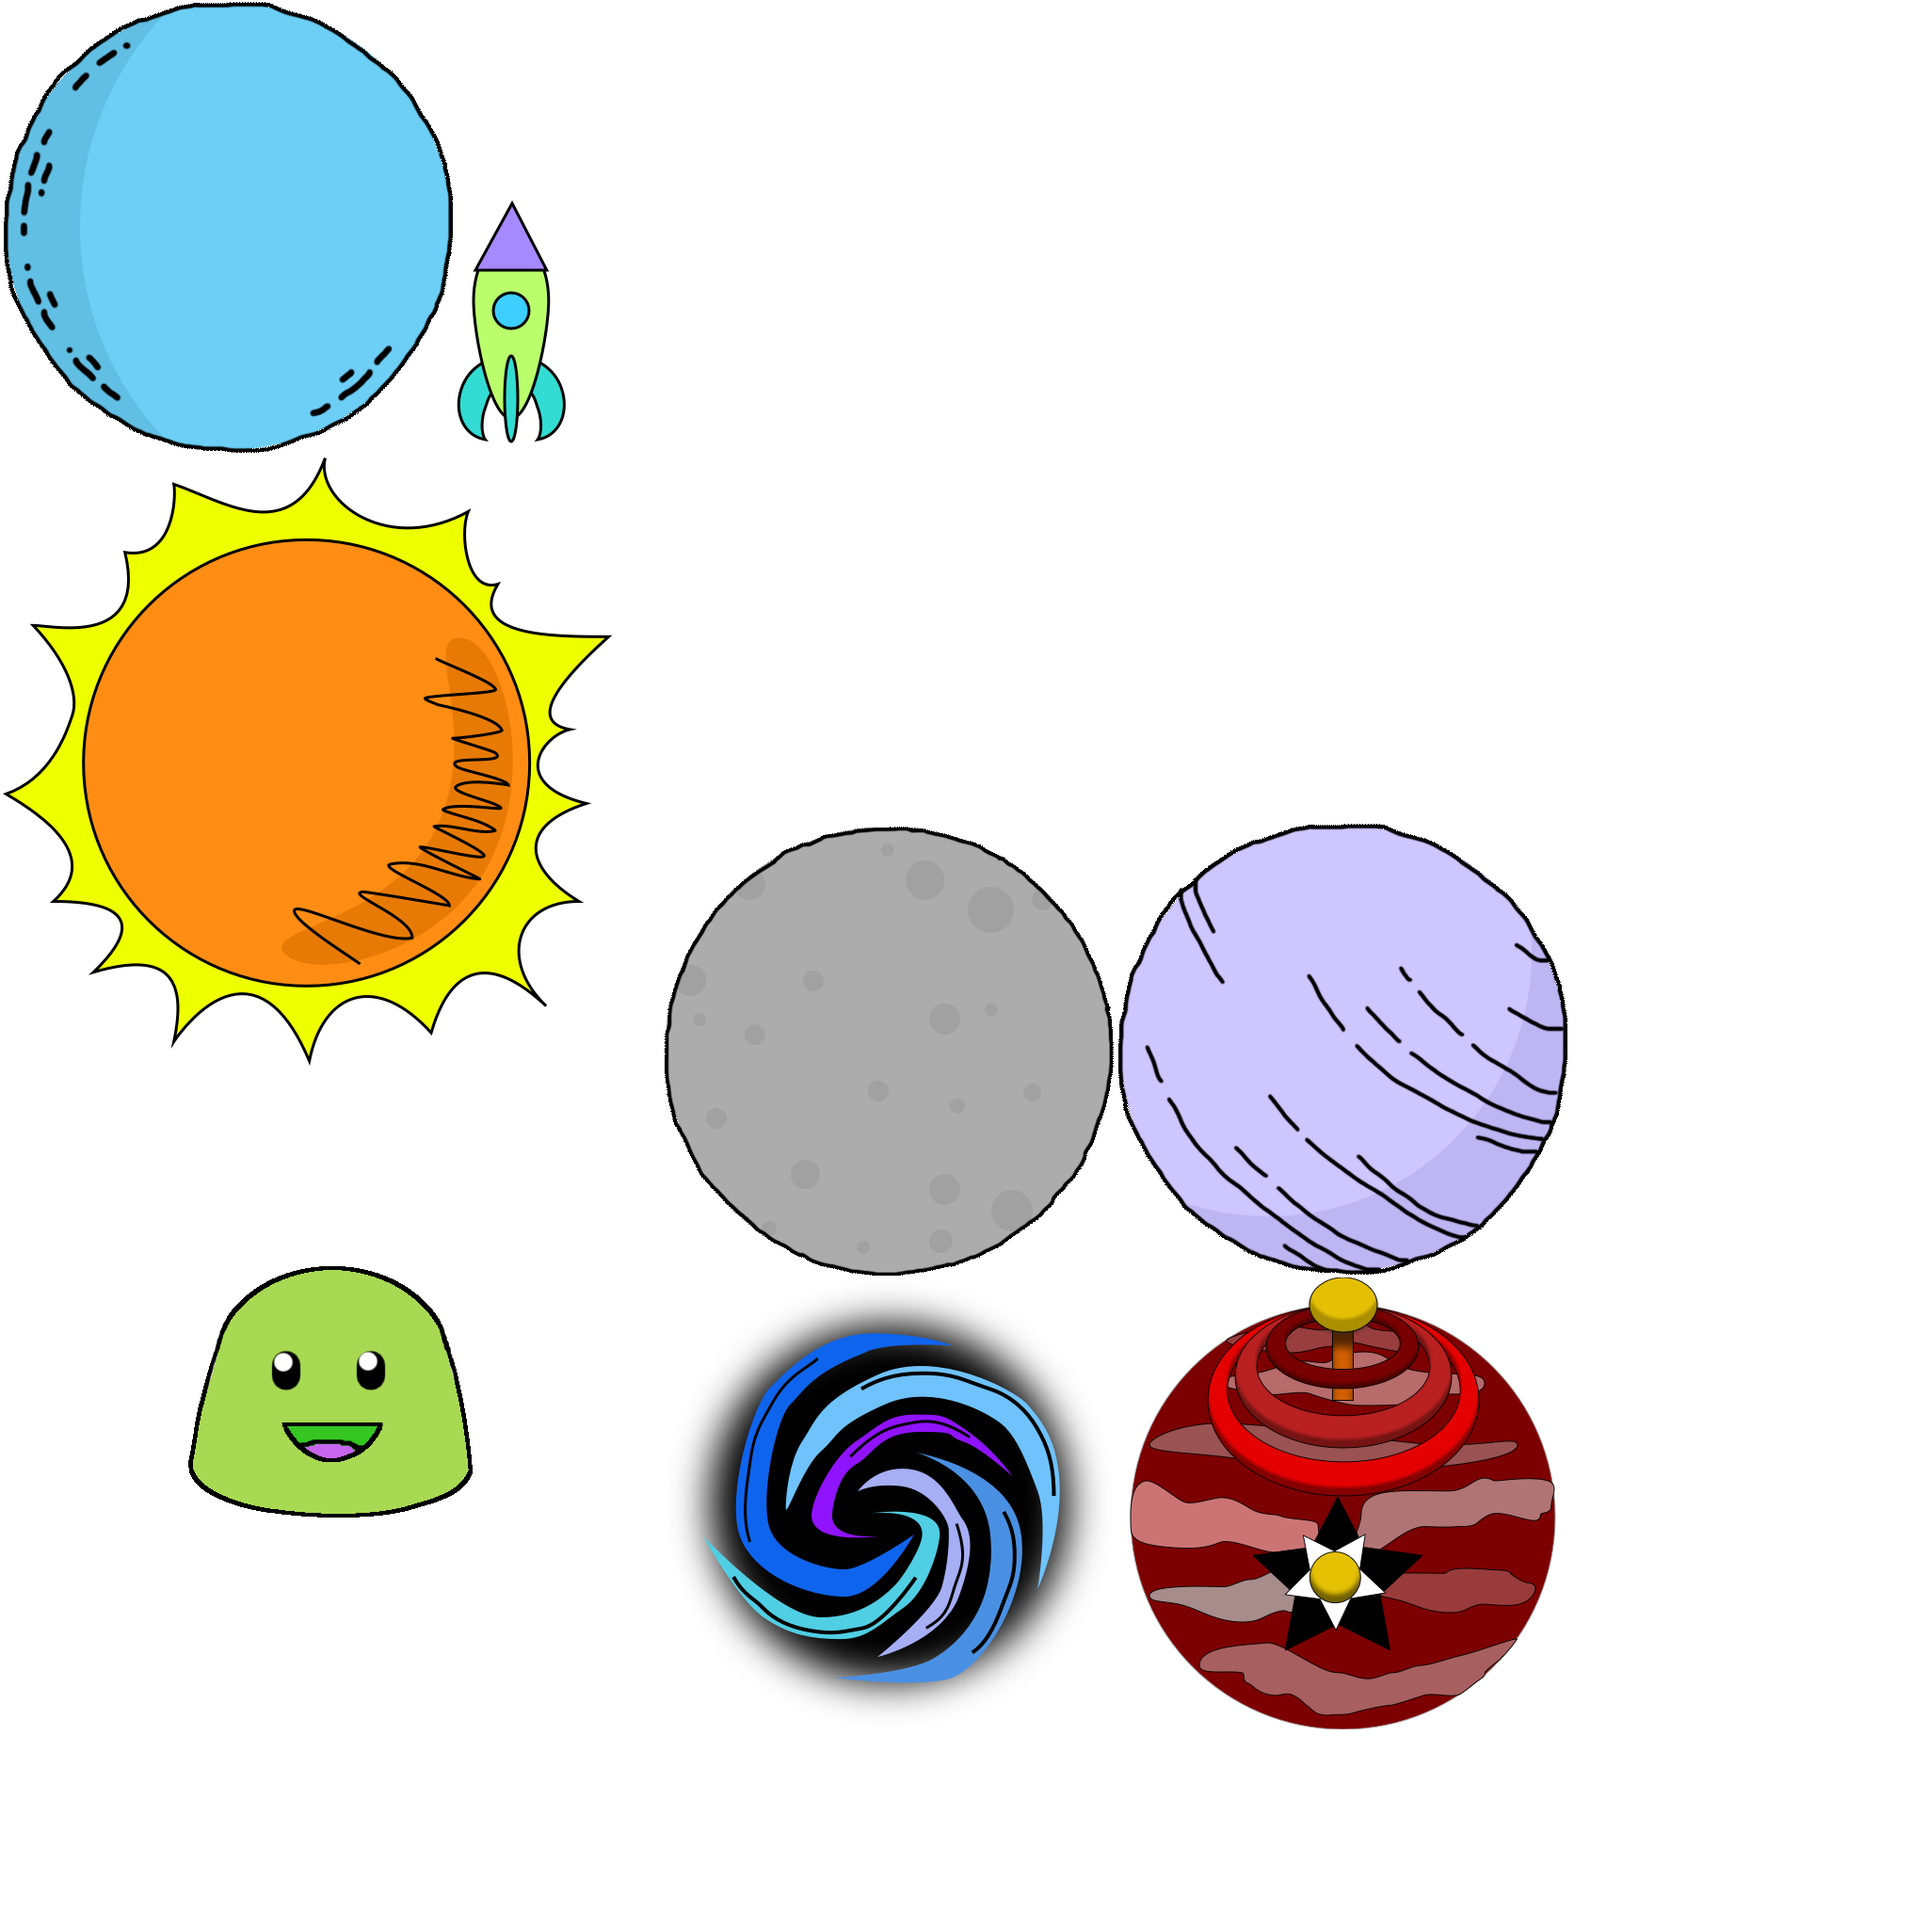
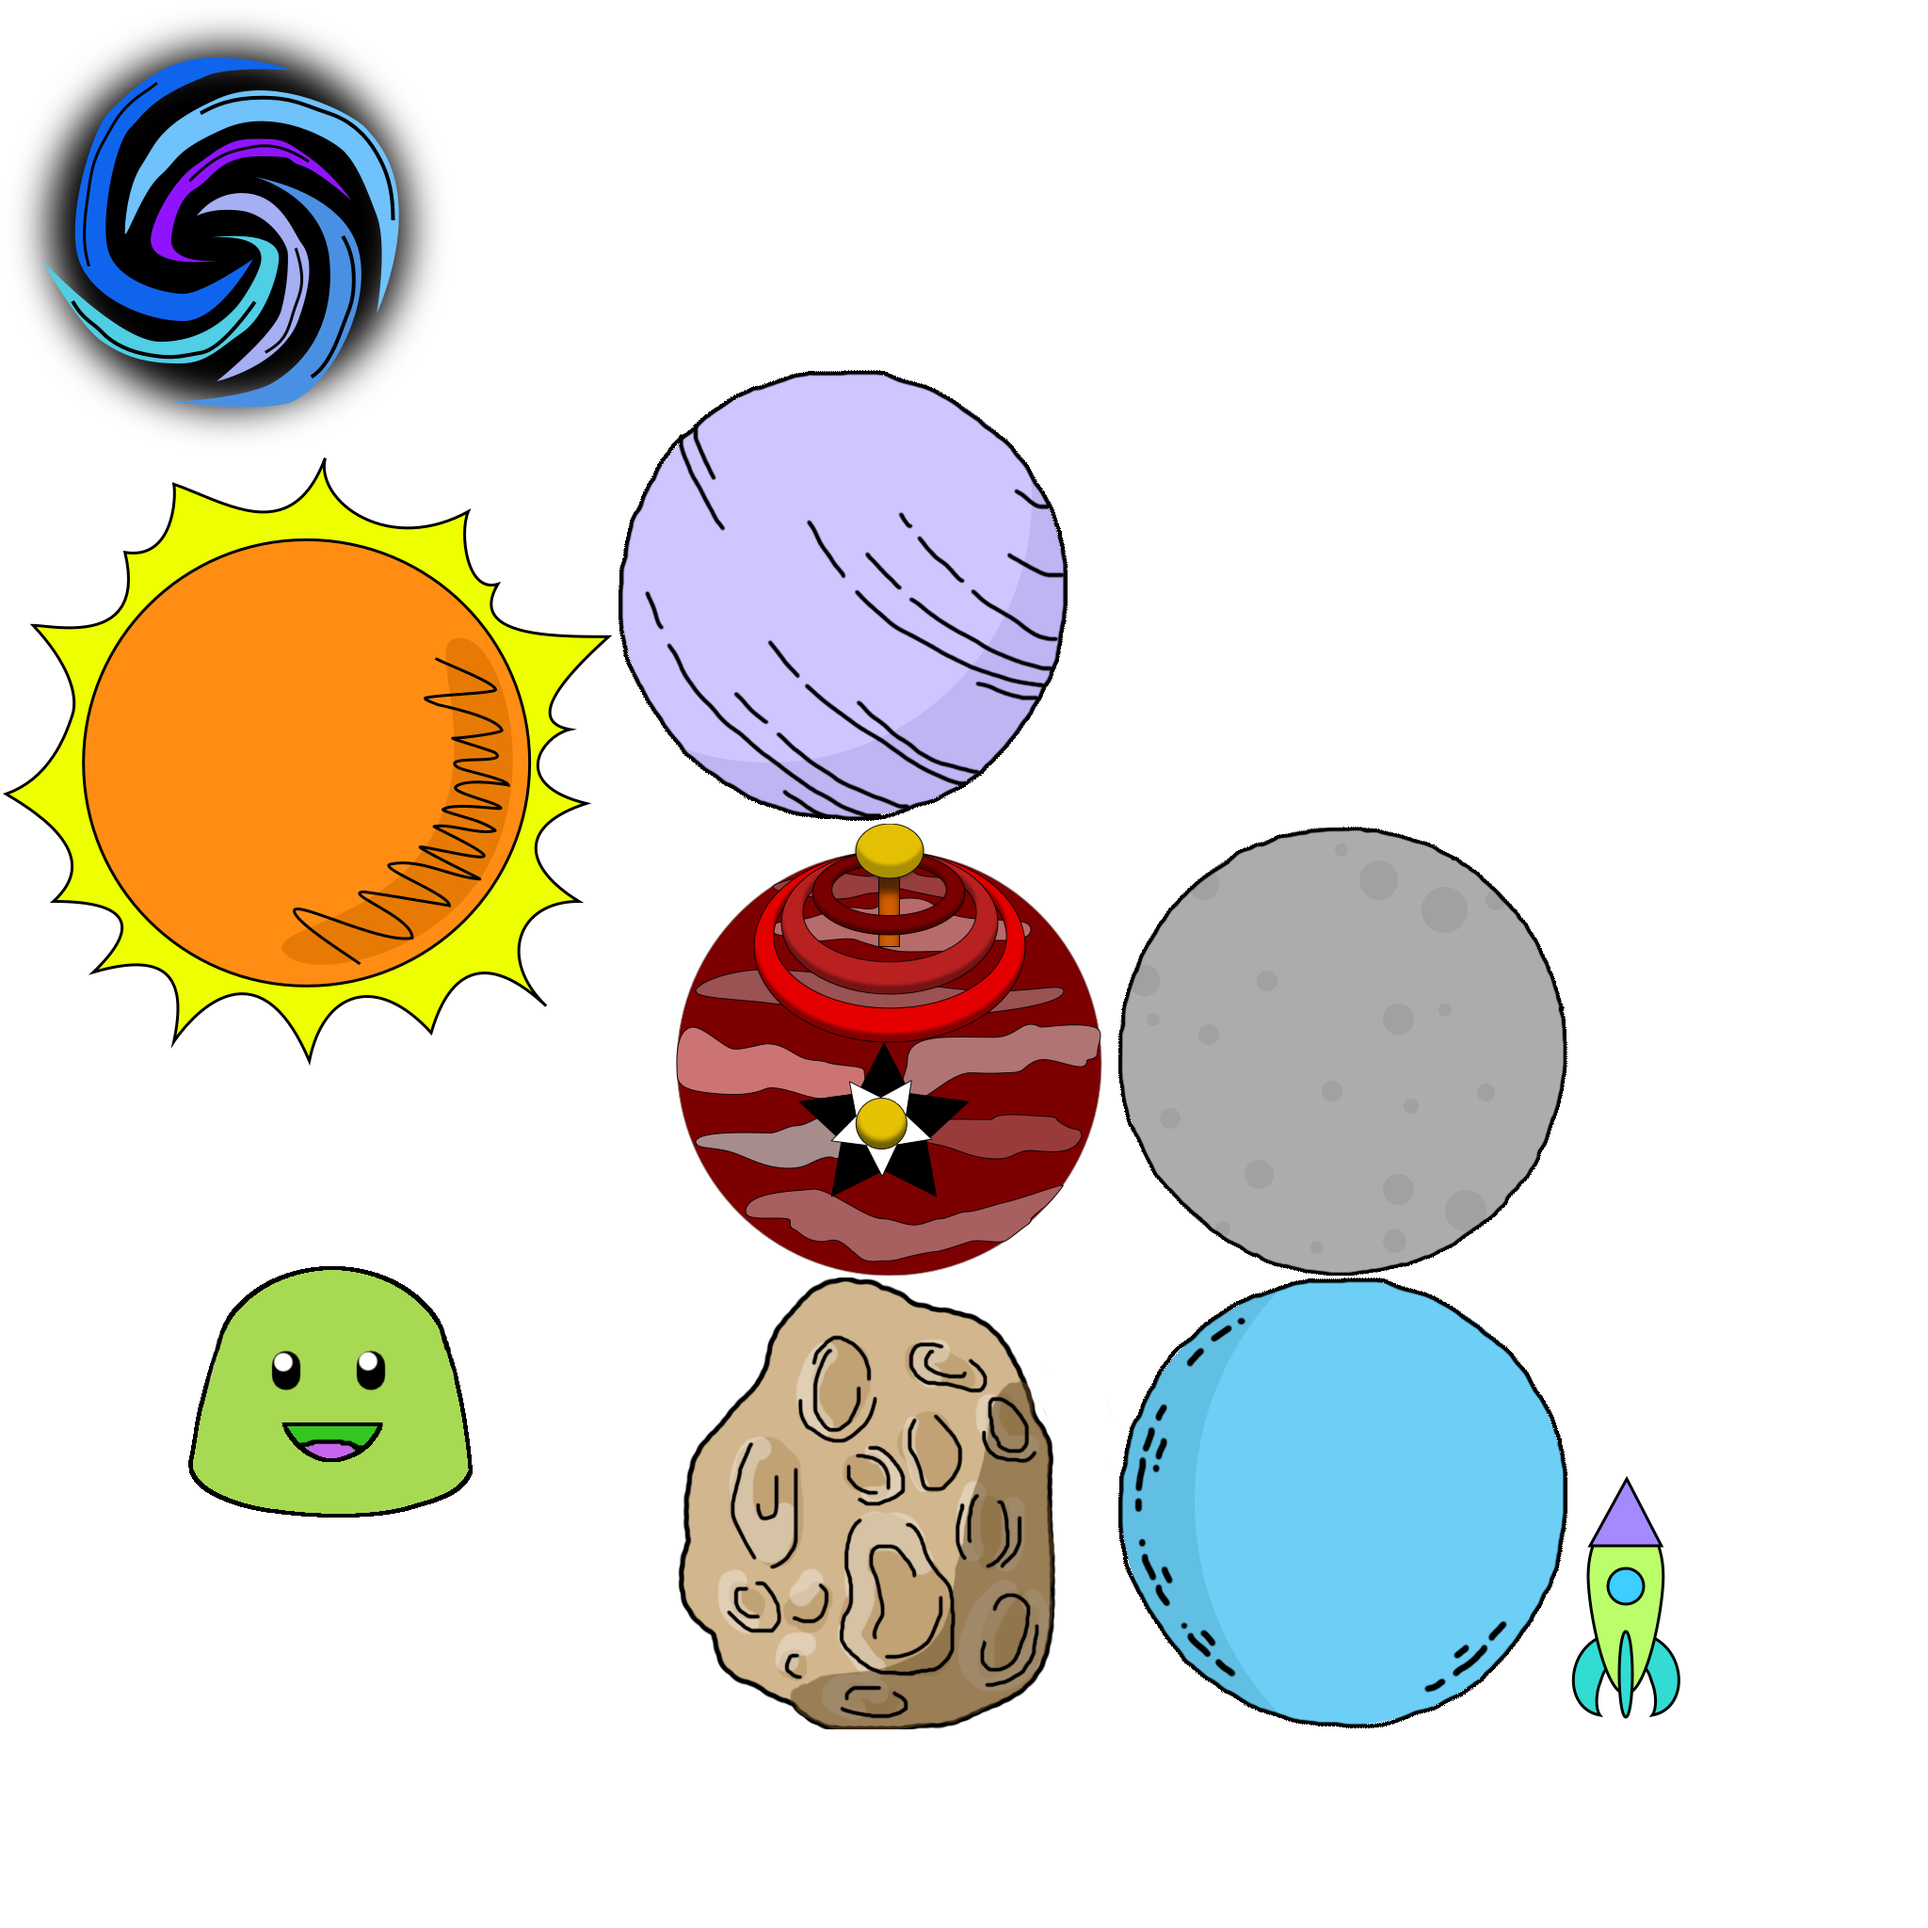
added asteroids

Changed region(s): [[0.3125, 0.1875, 0.875, 0.9062], [0.0, 0.0, 0.3125, 0.25]]

diff --git a/Code/core/src/edu/cornell/gdiac/controller/PlayMode.java b/Code/core/src/edu/cornell/gdiac/controller/PlayMode.java
@@ -702,6 +702,7 @@ public class PlayMode extends WorldController implements ContactListener {
     protected Array<Array<Float>> PLANETS = new Array<Array<Float>>();
     protected Array<Array<Float>> SHIPS = new Array<Array<Float>>();
     protected Array<Array<Float>> BLACK_HOLES = new Array<Array<Float>>();
+    protected Array<Array<Float>> ASTEROIDS = new Array<Array<Float>>();
 
     // Physics objects for the game
     /** Reference to the character avatar */
@@ -819,6 +820,7 @@ public class PlayMode extends WorldController implements ContactListener {
         Array<Array<Float>> planetArray = new Array<Array<Float>>();
         Array<Array<Float>> shipArray = new Array<Array<Float>>();
         Array<Array<Float>> blackHoleArray = new Array<Array<Float>>();
+        Array<Array<Float>> asteroidArray = new Array<Array<Float>>();
         ObjectMap<Integer, Array<Float>> bhmap = new ObjectMap<Integer, Array<Float>>();
         Array<Float> tempArray;
         float scale;
@@ -889,6 +891,14 @@ public class PlayMode extends WorldController implements ContactListener {
             else if(objectName.equals("oob2")){
                 OOB_RADIUS = scale / 0.35f;
             }
+            else if(objectName.equals("asteroid")){
+                tempArray = new Array<Float>();
+                tempArray = new Array<Float>();
+                tempArray.add((xPos+3)*3);
+                tempArray.add((yPos+3)*3);
+                tempArray.add(2.5f*scale/0.4f);
+                asteroidArray.add(tempArray);
+            }
             else if(objectName.equals("blackHole")){
                 tempArray = new Array<Float>();
                 tempArray.add((xPos+2.5f)*3);
@@ -925,6 +935,7 @@ public class PlayMode extends WorldController implements ContactListener {
         PLANETS = planetArray;
         SHIPS = shipArray;
         BLACK_HOLES =blackHoleArray;
+        ASTEROIDS = asteroidArray;
 
     }
 
@@ -1130,6 +1141,20 @@ public class PlayMode extends WorldController implements ContactListener {
 
             addObject(b1);
             addObject(b2);
+        }
+
+        //Create Asteroids
+        for (int i = 0; i<ASTEROIDS.size; i++){
+            AsteroidModel asteroid = new AsteroidModel(ASTEROIDS.get(i).get(0), ASTEROIDS.get(i).get(1), ASTEROIDS.get(i).get(2));
+            asteroid.setBodyType(BodyDef.BodyType.StaticBody);
+            asteroid.setDensity(BASIC_DENSITY);
+            asteroid.setFriction(BASIC_FRICTION);
+            asteroid.setRestitution(BASIC_RESTITUTION);
+            asteroid.setDrawScale(scale);
+            asteroid.setTexture(asteroid_Texture);
+            asteroid.scalePicScale(new Vector2(.2f * asteroid.getRadius(), .2f * asteroid.getRadius()));
+            asteroid.setName("asteroid");
+            addObject(asteroid);
         }
 
         // Create Ships
@@ -1782,6 +1807,18 @@ public class PlayMode extends WorldController implements ContactListener {
             }
             else if(bd2.getName().equals("expulsion") && bd1.getName().equals("black hole")) {
                 bd2.markRemoved(true);
+            }
+            if(bd1.getName().equals("asteroid") && bd2.getName().equals("Oob")){
+                //LOSE
+                System.out.println("here");
+                listener.exitScreen(this, 0);
+                //reset();
+            }
+            else if(bd2.getName().equals("asteroid") && bd1.getName().equals("Oob")){
+                //LOSE
+                System.out.println("HERE");
+                listener.exitScreen(this, 0);
+                //reset();
             }
         } catch (Exception e) {
             e.printStackTrace();

diff --git a/Code/core/src/edu/cornell/gdiac/model/AsteroidModel.java b/Code/core/src/edu/cornell/gdiac/model/AsteroidModel.java
@@ -1,0 +1,18 @@
+package edu.cornell.gdiac.model;
+
+import edu.cornell.gdiac.model.obstacle.WheelObstacle;
+
+/**
+ * Created by jchan on 4/23/2017.
+ */
+public class AsteroidModel extends WheelObstacle{
+
+    private static final float ASTEROID_DENSITY = 1.0f;
+
+    public AsteroidModel(float x, float y, float radius) {
+            super(x,y,radius);
+            setDensity(ASTEROID_DENSITY);
+            setFixedRotation(true);
+            setName("Asteroid");
+        }
+}
